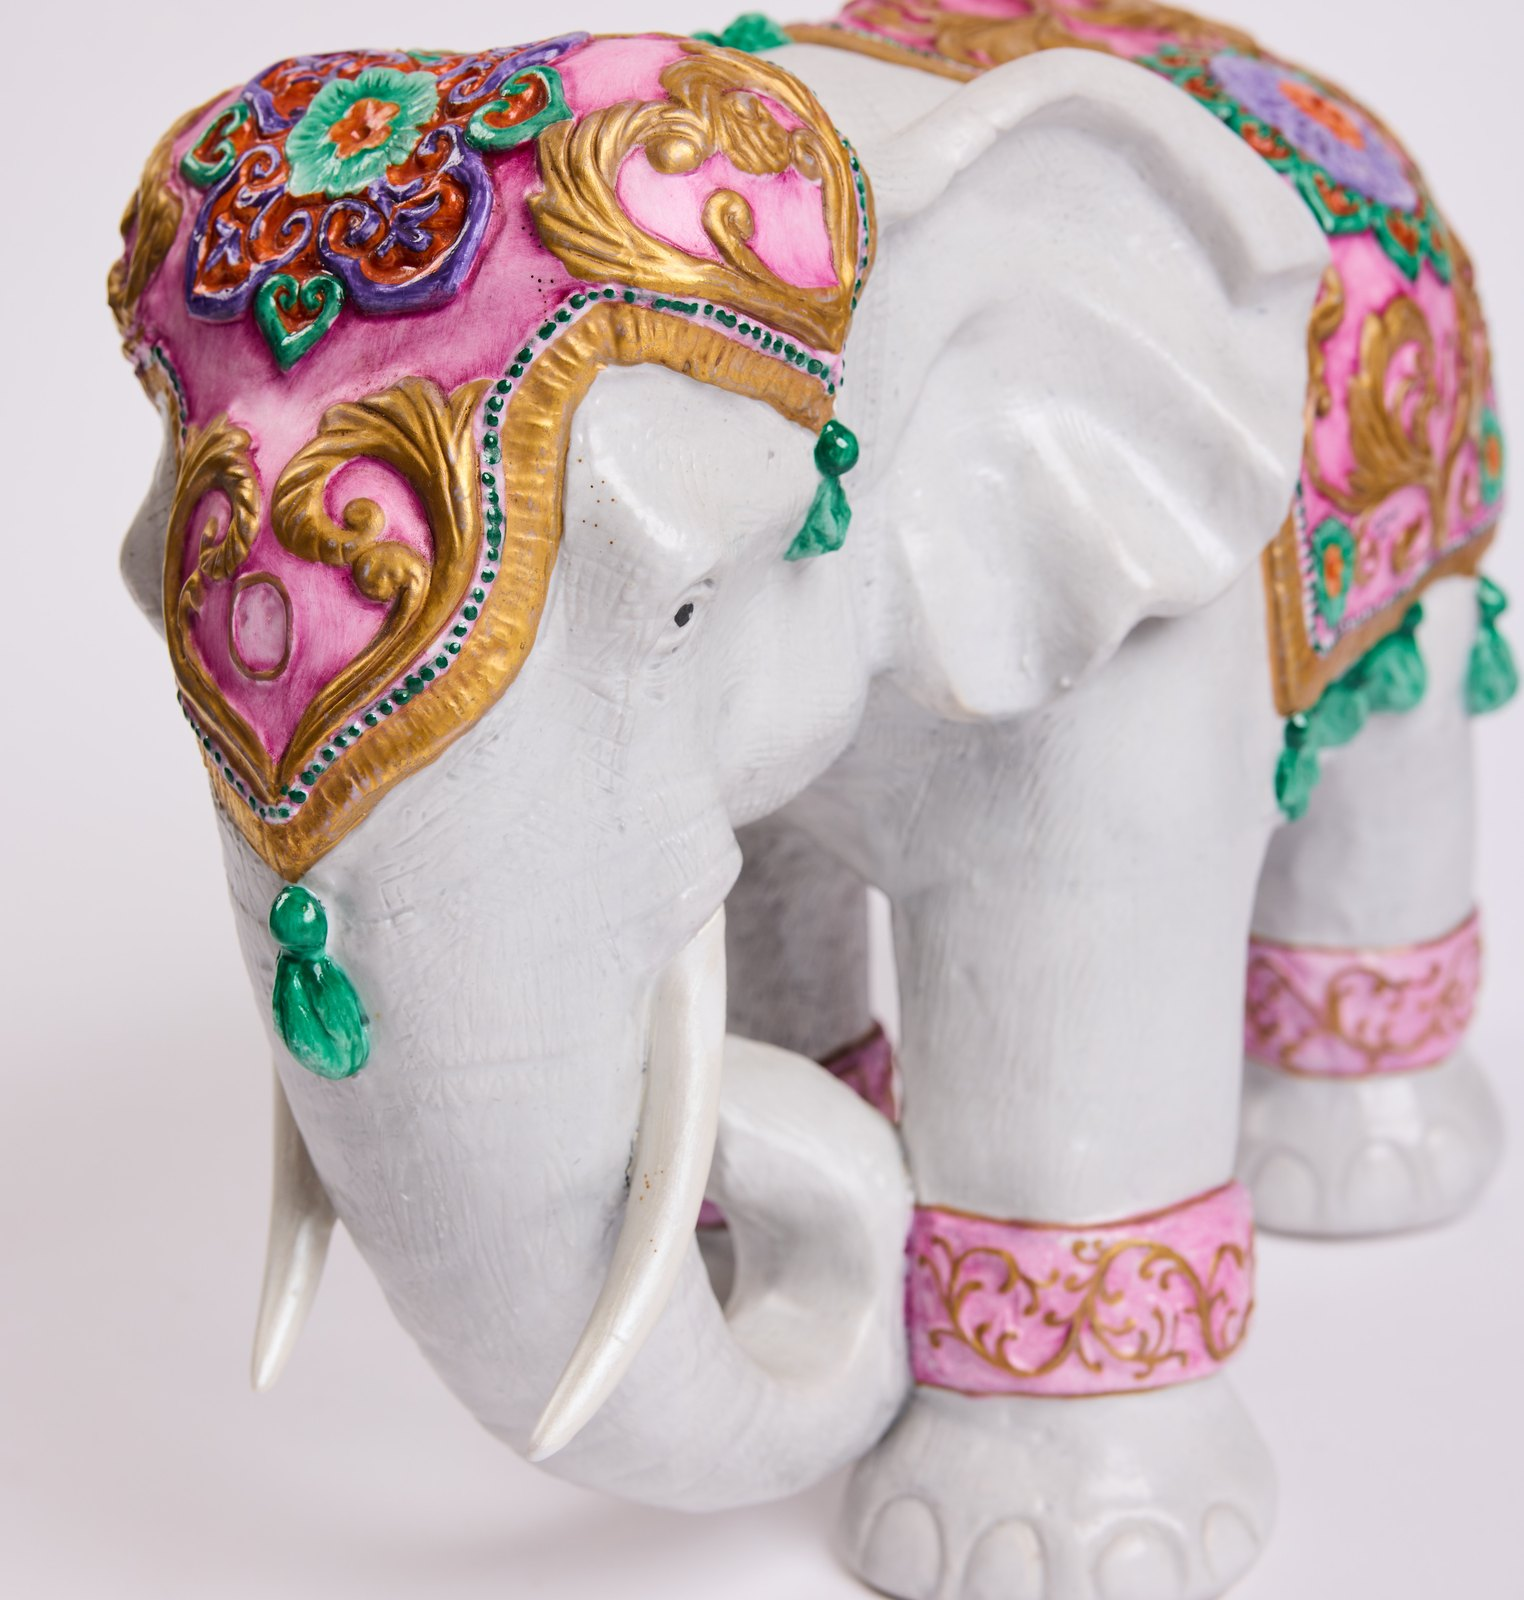
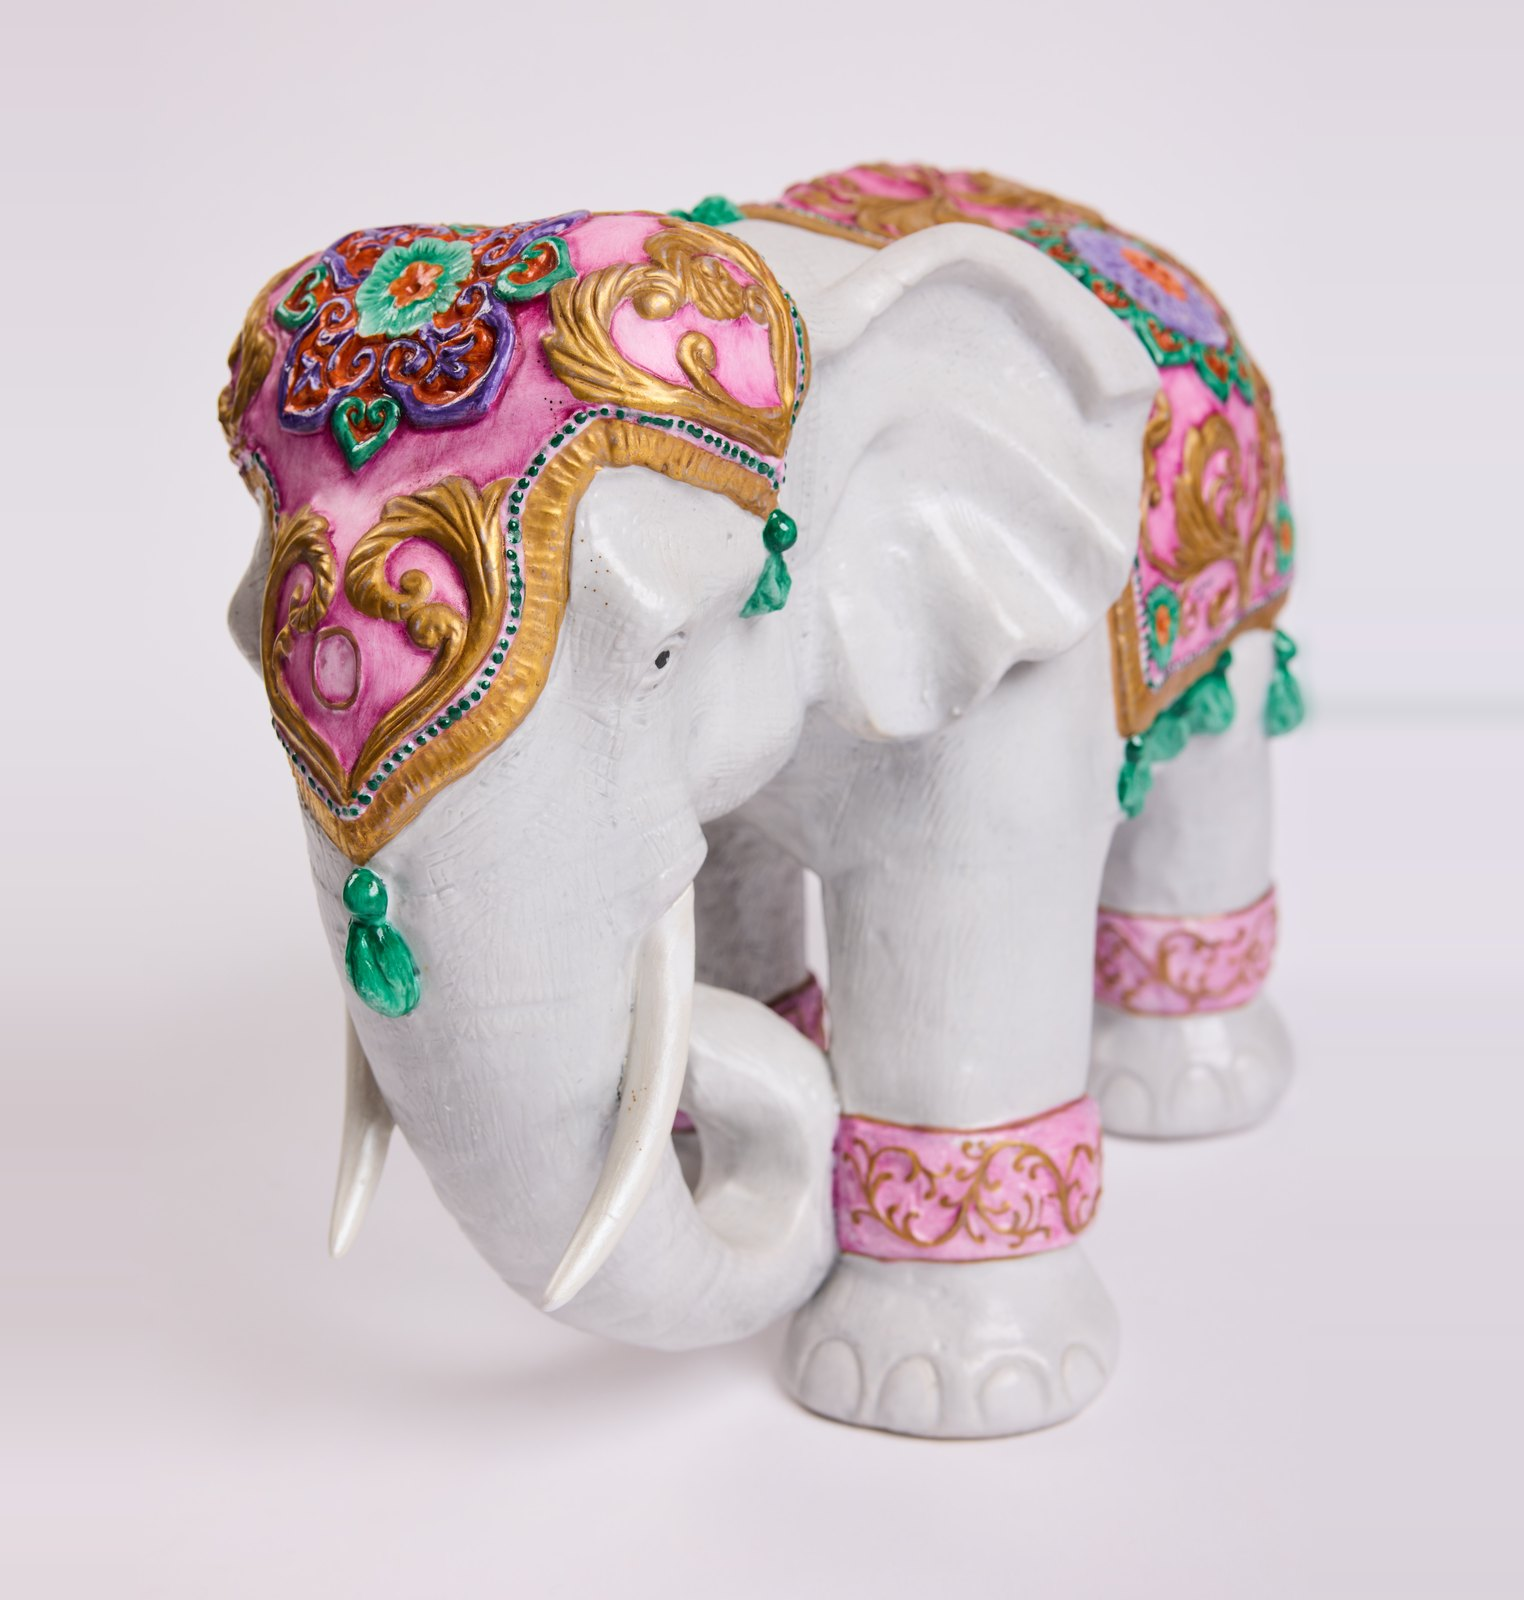
Celular: fotos centralizadas na página inicial e recortes das oficinas
- Queijeira e elefante centralizados nas colunas Oficinas/Encomendas
  (e sem a faixa preta que aparecia na borda da queijeira).
- Oficinas no celular usam recortes próprios, com a peça inteira:
  travessa, pote de vidro, consomê da frente e prato em quadro quadrado.
  No computador as fotos continuam as mesmas.

Claude-Session: https://claude.ai/code/session_01PMzi9GGECRTZDB2nGD4zzj

diff --git a/src/data/oficinas.ts b/src/data/oficinas.ts
@@ -18,6 +18,8 @@ export const formatos = [
     cta: 'Quero fazer aulas',
     msg: 'Olá! Tenho interesse nas aulas de pintura em porcelana da Pituá. Como funcionam as turmas?',
     img: editorial('oficina-aulas-travessa'),
+    imgMob: editorial('oficina-mob-aulas'),
+    ratioMob: '3 / 2',
     alt: 'Travessa retangular pintada com limões e azulejos azuis, servindo bolo de rolo',
   },
   {
@@ -33,6 +35,8 @@ export const formatos = [
     cta: 'Quero participar',
     msg: 'Olá! Tenho interesse na oficina criativa da Pituá. Como funcionam as turmas?',
     img: foto('bomboniere-arlequim', 1),
+    imgMob: editorial('oficina-mob-criativa'),
+    ratioMob: '3 / 2',
     alt: 'Bomboniere de vidro pintada à mão, com tampa amarela, pé listrado e bolinhas',
   },
   {
@@ -48,6 +52,8 @@ export const formatos = [
     cta: 'Quero saber dos próximos workshops',
     msg: 'Olá! Tenho interesse nos workshops da Pituá. Quais são os próximos projetos?',
     img: foto('consome-geometrico', 1),
+    imgMob: editorial('oficina-mob-workshops'),
+    ratioMob: '3 / 2',
     alt: 'Conjunto de consomê pintado com triângulos e círculos em azul e verde',
   },
   {
@@ -63,6 +69,8 @@ export const formatos = [
     cta: 'Planejar uma oficina temática',
     msg: 'Olá! Gostaria de planejar uma oficina temática com a Pituá.',
     img: editorial('oficina-tematica-prato'),
+    imgMob: editorial('oficina-mob-tematicas'),
+    ratioMob: '1 / 1',
     alt: 'Prato fundo pintado com tomates e folhas, sobre jogo americano de palha',
   },
 ];
